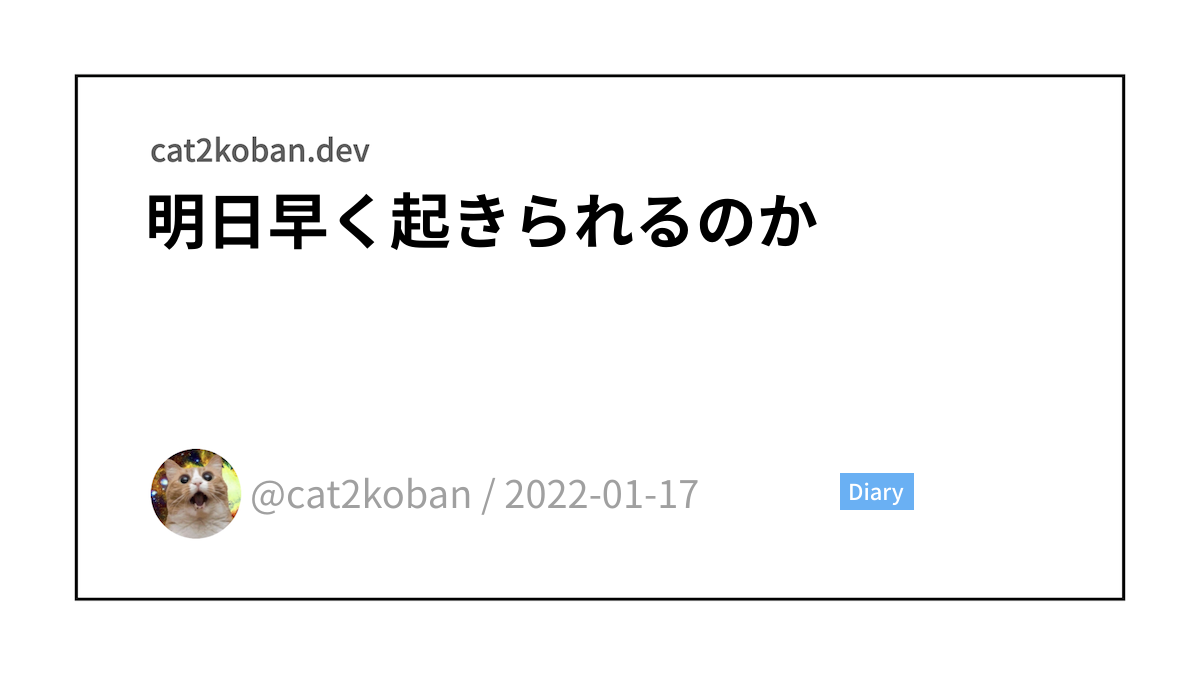
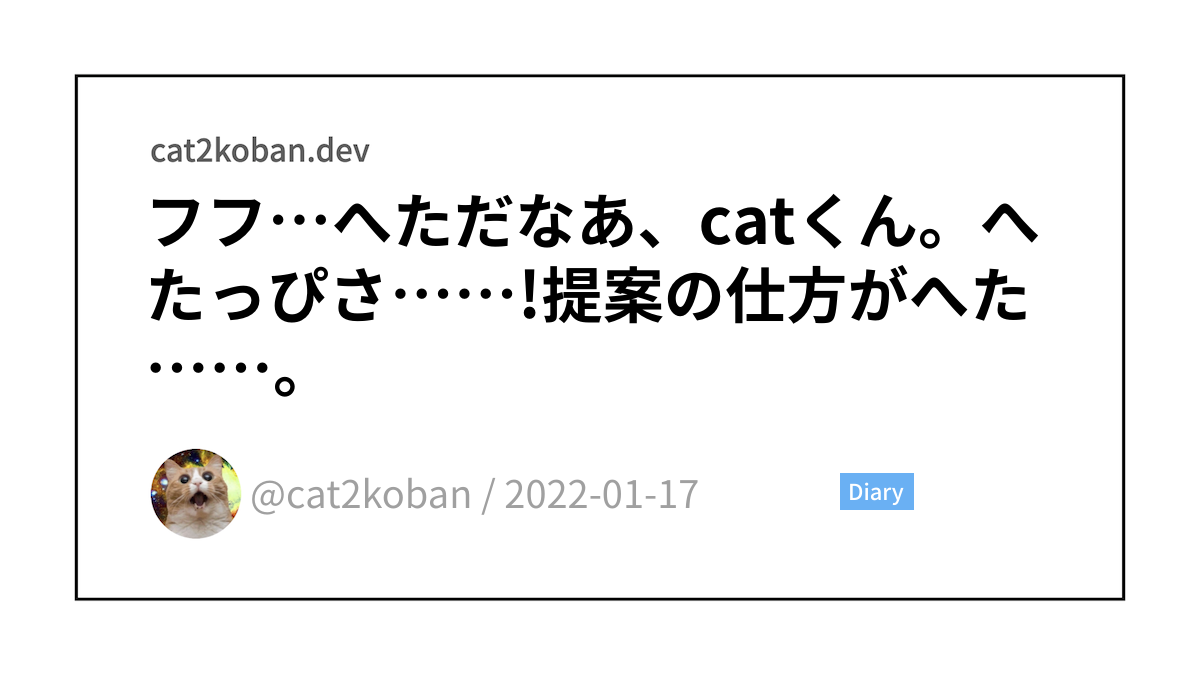
Fix content && tcard

diff --git a/content/posts/2022-01-17.md b/content/posts/2022-01-17.md
@@ -1,6 +1,6 @@
 ---
 categories: ["blah"]
-title: "明日早く起きられるのか"
+title: "フフ…へただなあ、catくん。へたっぴさ……!提案の仕方がへた……。"
 author: cat2koban
 date: 2022-01-17
 tags: [diary]
@@ -10,8 +10,24 @@ aliases:
 
 ### 今日
 
-は8時30分ちょうどからもくもく会の予定なのに、8時30分に起きてしまうという大失態。うう、、、、早く寝なきゃだよな。この日記を書いている今でも、本当は眠ってなきゃいけない。明日早く起きるためには。まぁ明日も明日で9時から朝の勉強会、なので夜更かしはできませんね。勉強会の前にジムに行けたらもっと最高だが、どうだろう。
+は8時30分ちょうどからもくもく会の予定なのに、8時30分に起きてしまうという大失態。うう、、、、早く寝なきゃだよな。朝早く起きるには。明日も明日で9時から朝の勉強会だし、この日記を書いている今でも本当は眠ってなきゃいけない。まぁなので夜更かしはできませんね。勉強会の前にジムに行けたらもっと最高だが、どうだろう。
 
 ### マクドナルド
 
 を夕飯に食べたのだけれども、ポテト L サイズを頼むより、ナゲットを頼んだ方が腹八分で収まるというどうでもいいことを知れた。多分この S サイズしか注文できない期間中はずっとナゲット頼むと思う。多分。
+
+### 提案するのが下手
+
+ここ最近の自分の仕事の仕方を見てると、人に何かの改善策を提案するのが下手だなって思った。
+
+- もう少し考えればわかることが考慮できてない
+- シンプルにまとまりのない日本語
+
+あたり。まぁなんていうか他にもありそうだけど。
+仕組み化してしまいたいが、こういう提案ものは、提案RCE なるものを用意したらいいのかな。逆に自分がどんな提案をされたら乗り気になりやすいか、納得がいきやすいか、とか、逆の立場になって考えてみる方が良いのかな。
+
+まぁ明日調べてみようかね。
+
+### 関係ないけど
+
+提案を受けて、何か意見を言う際に、「真っ向からあなたの意見を否定するつもりはない」と言うニュアンスの一言があるだけで、すごい嫌な気持ち？にならないなと思った。いいね。
